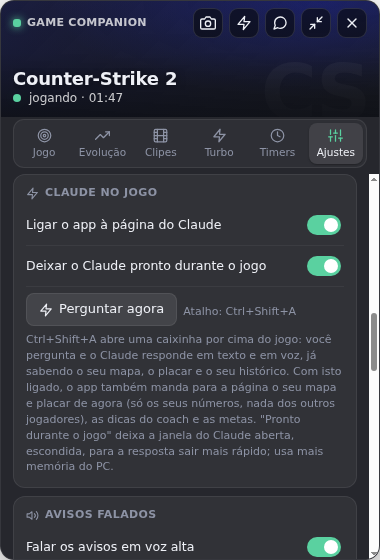
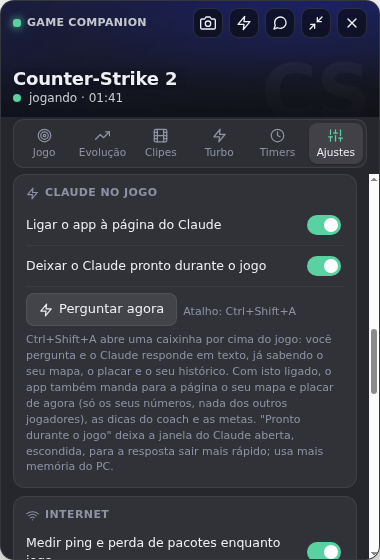
Game Companion 1.2.1: voz removida do app
- Sem avisos falados: a fala do HUD, dos timers, do coach, da internet, das metas e da pergunta rápida saiu
- O cartão "Avisos falados" sai dos Ajustes; os avisos continuam em texto (canto da tela e HUD)
- Ajustes antigos de voz são descartados ao abrir o app

Claude-Session: https://claude.ai/code/session_018waZrYVhUzaTpArXaZzWoK

diff --git a/src/main.js b/src/main.js
@@ -426,7 +426,7 @@ const cs2 = new Cs2Live();
 let cs2Seen = 0;
 let cs2Status = 'off';
 let cs2RoundKills = 0;
-let cs2RoundPhase = null, cs2Phase = null;
+let cs2Phase = null;
 function cs2Token() {
   if (!store.state.cs2Token) { store.state.cs2Token = crypto.randomBytes(12).toString('hex'); store.save(); }
   return store.state.cs2Token;
@@ -459,10 +459,9 @@ function startCs2Server() {
       cs2Seen = Date.now(); cs2Status = 'live';
       const { state, match } = cs2.update(p);
       send('cs2', state);
-      // Começo da rodada (tempo de compra): a dica de compra em voz. Nova partida: lembrete do coach.
-      if (state && state.roundPhase === 'freezetime' && cs2RoundPhase !== 'freezetime' && state.buy) speak('buy', state.buy.say);
+      // Nova partida: lembrete do coach.
       if (state && cs2Phase && state.phase !== cs2Phase && (state.phase === 'warmup' || cs2Phase === 'gameover')) coachRemind('cs2');
-      cs2RoundPhase = state ? state.roundPhase : null; cs2Phase = state ? state.phase : null;
+      cs2Phase = state ? state.phase : null;
       liveSync();
       if (match) onCs2Match(match);
       // Clipe sozinho: 3 ou mais abates na mesma rodada.
@@ -1088,7 +1087,7 @@ function checkGoals(game = null) {
     const p = stats.goalProgress(g, store.state.history, store.state.sessions, now);
     if (!p) continue;
     const where = g.game ? ` no ${nameOfGame(g.game)}` : '';
-    if (p.done && !g.doneAt) { g.doneAt = now; changed = true; notify(`🎯 Meta batida${where}: ${p.label} chegou a ${p.valueText} (meta ${p.targetText}).`); speak('goals', `Meta batida${where}!`); }
+    if (p.done && !g.doneAt) { g.doneAt = now; changed = true; notify(`🎯 Meta batida${where}: ${p.label} chegou a ${p.valueText} (meta ${p.targetText}).`); }
     if (p.over && g.warnedWeek !== stats.weekStart(now)) { g.warnedWeek = stats.weekStart(now); changed = true; notify(`⏳ Você passou de ${p.targetText} h de jogo esta semana${where}. Já são ${p.valueText} h.`); }
   }
   if (changed) { store.save(); send('history-changed'); }
@@ -1200,7 +1199,6 @@ async function onFpsDrop(drop) {
   if (store.state.settings.turboAlerts !== false && Date.now() - lastDropToast > 5 * 60000) {
     lastDropToast = Date.now();
     notify(`📉 FPS caiu de ${drop.from} para ${drop.to}. ${why.text}`);
-    speak('fps', `FPS caiu para ${drop.to}`);
   }
 }
 function checkHeat(sys) {
@@ -1449,7 +1447,6 @@ function showCoach(tip) {
   const text = tip.ai || tip.local.text;
   notify(`🧠 Coach: ${text}`);
   hudCoach = { text, until: Date.now() + 45000, label: 'Coach' };
-  speak('coach', text);
   send('coach', coachInfo());
   hudTick();
   queueCoach(tip);
@@ -1471,7 +1468,7 @@ function coachAsk(id) {
   return askClaude(t.game, coach.followUp(match, ctx, nameOfGame(t.game), t.ai || t.local.text));
 }
 
-// ---------- Pergunta rápida (Ctrl+Shift+A): caixinha por cima do jogo; o Claude responde em texto e voz ----------
+// ---------- Pergunta rápida (Ctrl+Shift+A): caixinha por cima do jogo; o Claude responde em texto (e no HUD) ----------
 let quickWin = null, quickBusy = false, quickSize = 170;
 const quickChat = new bridge.QuickChat();
 // O jogo da pergunta: o que está aberto ou, se o Pedro acabou de fechar, o da última sessão.
@@ -1484,7 +1481,7 @@ function quickGame() {
 function quickInfo() {
   const g = quickGame(), snap = liveSnapshot();
   const line = snap ? (snap.text || [snap.map, snap.mode, snap.score && `placar ${snap.score}`, snap.k != null && `${snap.k}/${snap.a ?? '?'}/${snap.d ?? '?'}`].filter(Boolean).join(' · ')) : '';
-  return { game: g ? g.id : null, gameName: g ? nameOfGame(g.id) : null, line, turns: g ? quickChat.turns(g.id) : [], busy: quickBusy, visible: Boolean(quickWin && !quickWin.isDestroyed() && quickWin.isVisible()), ready: Boolean(claudeWin && !claudeWin.isDestroyed()), voice: Boolean(store.state.settings.voice) };
+  return { game: g ? g.id : null, gameName: g ? nameOfGame(g.id) : null, line, turns: g ? quickChat.turns(g.id) : [], busy: quickBusy, visible: Boolean(quickWin && !quickWin.isDestroyed() && quickWin.isVisible()), ready: Boolean(claudeWin && !claudeWin.isDestroyed()) };
 }
 function placeQuick(height = quickSize) {
   if (!quickWin || quickWin.isDestroyed()) return;
@@ -1501,7 +1498,7 @@ function quickWindow() {
   quickWin.setAlwaysOnTop(true, 'screen-saver');
   quickWin.setVisibleOnAllWorkspaces(true, { visibleOnFullScreen: true });
   quickWin.loadFile(path.join(__dirname, 'renderer', 'quick.html'));
-  // Voltou para o jogo: a caixinha some (a resposta ainda sai no HUD e na voz).
+  // Voltou para o jogo: a caixinha some (a resposta ainda sai no HUD).
   quickWin.on('blur', () => setTimeout(() => { if (quickWin && !quickWin.isDestroyed() && quickWin.isVisible() && !quickWin.isFocused()) quickWin.hide(); }, 250));
   quickWin.on('closed', () => { quickWin = null; });
   return quickWin;
@@ -1534,7 +1531,6 @@ async function askQuick(question) {
     quickChat.add(g.id, q, text);
     hudCoach = { text, until: Date.now() + 40000, label: 'Claude' };
     hudTick();
-    speak('quick', text);
     return { text };
   } finally { quickBusy = false; touchBridge(); }
 }
@@ -1544,17 +1540,6 @@ setInterval(() => {
   const keep = currentGame && siteOn() && store.state.settings.quickWarm !== false;
   if (!keep && Date.now() - lastBridgeUse > 12 * 60000) claudeWin.destroy();
 }, 60000);
-
-// ---------- Avisos falados (dica de compra, timers, coach, internet, metas) ----------
-let lastSpoken = { text: '', at: 0 };
-function speak(kind, text) {
-  const s = store.state.settings;
-  if (!s.voice || !(s.voiceEvents || {})[kind] || !text) return;
-  const clean = String(text).replace(/[\u{1F000}-\u{1FAFF}\u{2600}-\u{27BF}\u{FE0F}]/gu, '').replace(/\s+/g, ' ').trim();
-  if (!clean || (clean === lastSpoken.text && Date.now() - lastSpoken.at < 15000)) return;
-  lastSpoken = { text: clean, at: Date.now() };
-  send('speak', { text: clean, volume: Math.max(0, Math.min(1, (Number(s.voiceVolume) || 80) / 100)), kind });
-}
 
 // ---------- Internet: ping e perda de pacotes, até o roteador e até a internet ----------
 const netState = { inet: new netLib.PingStats(), gw: new netLib.PingStats(), proc: null, hosts: '', gateway: undefined, base: null, lastAlert: 0, trouble: null };
@@ -1630,7 +1615,6 @@ function checkNet() {
     const what = t === 'loss' ? `${Math.round(recent.loss * 100)}% dos pacotes se perderam` : t === 'ping' ? `ping em ${recent.avg} ms` : `ping oscilando ${recent.jitter} ms`;
     const diag = netLib.diagnose(recent, netState.gw.summary(30000, now));
     notify(`📶 Internet instável: ${what} no último meio minuto. ${diag.text}`);
-    speak('net', t === 'loss' ? 'Internet perdendo pacotes' : 'Ping alto');
   }
   netState.trouble = t;
   if (win && win.isVisible()) send('net', netInfo());
@@ -1829,8 +1813,7 @@ function registerIpc() {
       hudItems: (v) => Object.fromEntries(Object.keys(store.state.settings.hudItems || {}).map((k) => [k, Boolean(v && v[k])])),
       turboPower: Boolean, turboAlerts: Boolean, dailyLimitMin: (v) => Math.max(0, Math.min(24 * 60, Math.round(Number(v) || 0))),
       clips: Boolean, clipSeconds: (v) => ([15, 30, 60].includes(Number(v)) ? Number(v) : 30), clipAuto: Boolean, clipQuality: (v) => (v === '1080' ? '1080' : '720'),
-      coach: Boolean, coachAi: Boolean, voice: Boolean, voiceVolume: (v) => Math.max(10, Math.min(100, Math.round(Number(v) || 80))),
-      voiceEvents: (v) => Object.fromEntries(Object.keys(store.state.settings.voiceEvents || {}).map((k) => [k, Boolean(v && v[k])])),
+      coach: Boolean, coachAi: Boolean,
       net: Boolean, netHost: (v) => (netLib.hostOk(String(v || '').trim()) ? String(v).trim().slice(0, 100) : '1.1.1.1'), autoUpdate: Boolean,
       siteSync: Boolean, quickWarm: Boolean,
     };

diff --git a/src/renderer/index.html b/src/renderer/index.html
@@ -33,7 +33,6 @@
     <symbol id="i-radio" viewBox="0 0 24 24"><circle cx="12" cy="12" r="2"/><path d="M16.2 7.8a6 6 0 0 1 0 8.5"/><path d="M7.8 16.2a6 6 0 0 1 0-8.5"/><path d="M19.1 4.9a10 10 0 0 1 0 14.2"/><path d="M4.9 19.1a10 10 0 0 1 0-14.2"/></symbol>
     <symbol id="i-brain" viewBox="0 0 24 24"><path d="M9.5 2A2.5 2.5 0 0 0 7 4.5v.3A3 3 0 0 0 4.5 8a3 3 0 0 0 .4 1.5A3 3 0 0 0 4 12a3 3 0 0 0 1.6 2.6A3 3 0 0 0 8 19a2.5 2.5 0 0 0 4 1.5V4a2 2 0 0 0-2.5-2z"/><path d="M14.5 2A2.5 2.5 0 0 1 17 4.5v.3A3 3 0 0 1 19.5 8a3 3 0 0 1-.4 1.5A3 3 0 0 1 20 12a3 3 0 0 1-1.6 2.6A3 3 0 0 1 16 19a2.5 2.5 0 0 1-4 1.5"/></symbol>
     <symbol id="i-wifi" viewBox="0 0 24 24"><path d="M5 12.55a11 11 0 0 1 14.08 0"/><path d="M1.42 9a16 16 0 0 1 21.16 0"/><path d="M8.53 16.11a6 6 0 0 1 6.95 0"/><line x1="12" y1="20" x2="12.01" y2="20"/></symbol>
-    <symbol id="i-volume" viewBox="0 0 24 24"><polygon points="11 5 6 9 2 9 2 15 6 15 11 19 11 5"/><path d="M15.54 8.46a5 5 0 0 1 0 7.07"/><path d="M19.07 4.93a10 10 0 0 1 0 14.14"/></symbol>
     <symbol id="i-scissors" viewBox="0 0 24 24"><circle cx="6" cy="6" r="3"/><circle cx="6" cy="18" r="3"/><line x1="20" y1="4" x2="8.12" y2="15.88"/><line x1="14.47" y1="14.48" x2="20" y2="20"/><line x1="8.12" y1="8.12" x2="12" y2="12"/></symbol>
     <symbol id="i-copy" viewBox="0 0 24 24"><rect x="9" y="9" width="13" height="13" rx="2"/><path d="M5 15H4a2 2 0 0 1-2-2V4a2 2 0 0 1 2-2h9a2 2 0 0 1 2 2v1"/></symbol>
     <symbol id="i-folder" viewBox="0 0 24 24"><path d="M22 19a2 2 0 0 1-2 2H4a2 2 0 0 1-2-2V5a2 2 0 0 1 2-2h5l2 3h9a2 2 0 0 1 2 2z"/></symbol>
@@ -51,7 +50,7 @@
         <div class="brand drag"><span class="brand-dot"></span>Game Companion</div>
         <div class="actions no-drag">
           <button id="btn-shot" class="icon-btn" title="Print do placar para o Claude ler (Ctrl+Shift+P)"><svg><use href="#i-camera"/></svg></button>
-          <button id="btn-quick" class="icon-btn" title="Perguntar ao Claude no jogo, com texto e voz (Ctrl+Shift+A)"><svg><use href="#i-bolt"/></svg></button>
+          <button id="btn-quick" class="icon-btn" title="Perguntar ao Claude no jogo (Ctrl+Shift+A)"><svg><use href="#i-bolt"/></svg></button>
           <button id="btn-web" class="icon-btn" title="Abrir o Claude: perguntas, partidas, imagens (Ctrl+Shift+W)"><svg><use href="#i-chat"/></svg></button>
           <button id="btn-compact" class="icon-btn" title="Modo compacto (Ctrl+Shift+M)"><svg><use href="#i-shrink"/></svg></button>
           <button id="btn-hide" class="icon-btn" title="Esconder (Ctrl+Shift+G). O app continua no ícone perto do relógio."><svg><use href="#i-x"/></svg></button>
@@ -377,17 +376,7 @@
           <label class="set-row">Ligar o app à página do Claude <input id="set-site" type="checkbox" class="switch"></label>
           <label class="set-row">Deixar o Claude pronto durante o jogo <input id="set-quick-warm" type="checkbox" class="switch"></label>
           <div class="row"><button id="btn-quick-open" class="btn ghost"><svg><use href="#i-bolt"/></svg>Perguntar agora</button><span class="muted small">Atalho: Ctrl+Shift+A</span></div>
-          <div class="small muted">Ctrl+Shift+A abre uma caixinha por cima do jogo: você pergunta e o Claude responde em texto e em voz, já sabendo o seu mapa, o placar e o seu histórico. Com isto ligado, o app também manda para a página o seu mapa e placar de agora (só os seus números, nada dos outros jogadores), as dicas do coach e as metas. "Pronto durante o jogo" deixa a janela do Claude aberta, escondida, para a resposta sair mais rápido; usa mais memória do PC.</div>
-        </div>
-        <div class="card">
-          <div class="card-label"><svg><use href="#i-volume"/></svg>Avisos falados</div>
-          <label class="set-row">Falar os avisos em voz alta <input id="set-voice" type="checkbox" class="switch"></label>
-          <label class="set-row">Volume <input id="set-voice-volume" type="range" min="10" max="100" step="10"></label>
-          <div class="chips toggles" id="set-voice-events">
-            <button data-ev="buy">Dica de compra do CS2</button><button data-ev="timers">Timers e lembretes</button><button data-ev="coach">Coach</button>
-            <button data-ev="net">Internet instável</button><button data-ev="goals">Metas batidas</button><button data-ev="fps">Queda de FPS</button><button data-ev="quick">Respostas rápidas do Claude</button>
-          </div>
-          <div class="row"><button id="btn-voice-test" class="btn ghost"><svg><use href="#i-volume"/></svg>Testar a voz</button><span id="voice-name" class="muted small"></span></div>
+          <div class="small muted">Ctrl+Shift+A abre uma caixinha por cima do jogo: você pergunta e o Claude responde em texto, já sabendo o seu mapa, o placar e o seu histórico. Com isto ligado, o app também manda para a página o seu mapa e placar de agora (só os seus números, nada dos outros jogadores), as dicas do coach e as metas. "Pronto durante o jogo" deixa a janela do Claude aberta, escondida, para a resposta sair mais rápido; usa mais memória do PC.</div>
         </div>
         <div class="card">
           <div class="card-label"><svg><use href="#i-wifi"/></svg>Internet</div>

diff --git a/src/renderer/app.js b/src/renderer/app.js
@@ -365,7 +365,6 @@ function alertUser(text) {
   b.textContent = `⏰ ${text}`; b.hidden = false;
   clearTimeout(b._t); b._t = setTimeout(() => { b.hidden = true; }, 8000);
   beep();
-  if (settings.voice && (settings.voiceEvents || {}).timers) setTimeout(() => say(text), 900);
   try { new Notification('Game Companion', { body: text, silent: true }); } catch {}
 }
 
@@ -498,9 +497,6 @@ function applySettings() {
   $('#set-coach').checked = settings.coach !== false;
   $('#set-coach-ai').checked = settings.coachAi !== false;
   $('#set-coach-ai').disabled = settings.coach === false;
-  $('#set-voice').checked = Boolean(settings.voice);
-  $('#set-voice-volume').value = settings.voiceVolume ?? 80;
-  $$('#set-voice-events button').forEach((b) => b.classList.toggle('on', Boolean((settings.voiceEvents || {})[b.dataset.ev])));
   $('#set-net').checked = settings.net !== false;
   if (document.activeElement !== $('#set-net-host')) $('#set-net-host').value = settings.netHost || '1.1.1.1';
   $('#set-auto-update').checked = settings.autoUpdate !== false;
@@ -528,10 +524,6 @@ $('#set-clip-auto').onchange = (e) => setSetting('clipAuto', e.target.checked);
 $('#btn-clips-folder').onclick = () => window.api.openClipsFolder();
 $('#set-coach').onchange = (e) => setSetting('coach', e.target.checked);
 $('#set-coach-ai').onchange = (e) => setSetting('coachAi', e.target.checked);
-$('#set-voice').onchange = (e) => setSetting('voice', e.target.checked);
-$('#set-voice-volume').onchange = (e) => { setSetting('voiceVolume', Number(e.target.value)); say('Volume da voz', Number(e.target.value) / 100); };
-$$('#set-voice-events button').forEach((b) => b.onclick = () => setSetting('voiceEvents', { ...(settings.voiceEvents || {}), [b.dataset.ev]: !(settings.voiceEvents || {})[b.dataset.ev] }));
-$('#btn-voice-test').onclick = () => say('Compra completa. Fuzil, colete e granadas.');
 $('#set-net').onchange = (e) => setSetting('net', e.target.checked);
 $('#set-net-host').onchange = (e) => setSetting('netHost', e.target.value.trim() || '1.1.1.1');
 $('#set-auto-update').onchange = (e) => setSetting('autoUpdate', e.target.checked);
@@ -1068,27 +1060,6 @@ function renderEvoCoach() {
   }).join('');
 }
 window.api.onCoach((c) => { coachData = c; renderCoach(); });
-
-// ---------- Avisos falados ----------
-// A voz é a do Windows (Microsoft Maria, Francisca ou Daniel, em português).
-let voice = null;
-function pickVoice() {
-  const all = speechSynthesis.getVoices();
-  voice = all.find((v) => /pt-BR/i.test(v.lang) && /Francisca|Thalita|Maria|Daniel|Google/i.test(v.name)) || all.find((v) => /pt-BR/i.test(v.lang)) || all.find((v) => /^pt/i.test(v.lang)) || null;
-  $('#voice-name').textContent = voice ? voice.name.replace(/^Microsoft\s+/, '').replace(/\s+Online.*$/, '') : all.length ? 'Sem voz em português: instale em Configurações do Windows, Hora e idioma, Fala.' : '';
-}
-try { pickVoice(); speechSynthesis.onvoiceschanged = pickVoice; } catch {}
-function say(text, volume) {
-  try {
-    if (!text) return;
-    const u = new SpeechSynthesisUtterance(String(text));
-    u.lang = 'pt-BR'; if (voice) u.voice = voice;
-    u.volume = volume ?? (settings.voiceVolume ?? 80) / 100; u.rate = 1.08;
-    window.__spoken = [...(window.__spoken || []), String(text)].slice(-20);
-    speechSynthesis.speak(u);
-  } catch {}
-}
-window.api.onSpeak((m) => say(m.text, m.volume));
 
 // ---------- Internet ----------
 let netData = null;

diff --git a/src/core.js b/src/core.js
@@ -87,7 +87,6 @@ const DEFAULT_STATE = {
     turboPower: false, turboAlerts: true, dailyLimitMin: 0,
     clips: false, clipSeconds: 30, clipAuto: true, clipQuality: '720',
     coach: true, coachAi: true,
-    voice: true, voiceVolume: 80, voiceEvents: { buy: true, timers: true, coach: true, net: true, goals: true, fps: false, quick: true },
     net: true, netHost: '1.1.1.1',
     autoUpdate: true,
     siteSync: true, quickWarm: true,
@@ -107,7 +106,7 @@ class Store {
       // Ajustes novos ganham o valor padrão sem perder os que o Pedro já mudou.
       this.state.settings = { ...DEFAULT_STATE.settings, ...(saved.settings || {}) };
       this.state.settings.hudItems = { ...DEFAULT_STATE.settings.hudItems, ...((saved.settings || {}).hudItems || {}) };
-      this.state.settings.voiceEvents = { ...DEFAULT_STATE.settings.voiceEvents, ...((saved.settings || {}).voiceEvents || {}) };
+      for (const k of ['voice', 'voiceVolume', 'voiceEvents']) delete this.state.settings[k]; // a voz foi retirada do app (1.2.1)
     } catch {
       this.state = structuredClone(DEFAULT_STATE);
     }

diff --git a/test/smoke.js b/test/smoke.js
@@ -509,7 +509,17 @@ const turbo = require('../src/turbo');
   assert(up.verify({ size: 5e6, sha256: 'x' }, { size: 5e6, sha256: null }), 'sem digest, confere o tamanho');
 }
 
-// ---------- Dica de compra falada (CS2) ----------
+// ---------- A voz saiu do app (1.2.1): ajustes antigos de voz são descartados ----------
+{
+  const f = path.join(os.tmpdir(), `gc-voz-${Date.now()}.json`);
+  fs.writeFileSync(f, JSON.stringify({ settings: { opacity: 70, voice: true, voiceVolume: 50, voiceEvents: { buy: true } } }));
+  const st = new core.Store(f);
+  assert.strictEqual(st.state.settings.opacity, 70, 'os outros ajustes continuam');
+  for (const k of ['voice', 'voiceVolume', 'voiceEvents']) assert(!(k in st.state.settings), `${k} some`);
+  assert(!('voice' in new core.Store(path.join(os.tmpdir(), `gc-voz-novo-${Date.now()}.json`)).state.settings));
+}
+
+// ---------- Dica de compra (CS2) ----------
 {
   const { buyAdvice } = require('../src/cs2');
   const b = buyAdvice({ mode: 'competitive', money: 6000, team: 'CT', round: 5, phase: 'live' });

diff --git a/src/preload.js b/src/preload.js
@@ -69,8 +69,7 @@ contextBridge.exposeInMainWorld('api', {
   coach: () => ipcRenderer.invoke('coach'),
   coachAsk: (id) => ipcRenderer.invoke('coach-ask', id),
   onCoach: (cb) => ipcRenderer.on('coach', (_e, c) => cb(c)),
-  // Voz e internet
-  onSpeak: (cb) => ipcRenderer.on('speak', (_e, m) => cb(m)),
+  // Internet
   net: () => ipcRenderer.invoke('net'),
   netWatch: (on) => ipcRenderer.invoke('net-watch', on),
   onNet: (cb) => ipcRenderer.on('net', (_e, n) => cb(n)),

diff --git a/src/renderer/quick.js b/src/renderer/quick.js
@@ -1,4 +1,4 @@
-// Pergunta rápida: o Pedro escreve, o Claude responde (a resposta também sai no HUD e na voz, pelo processo principal).
+// Pergunta rápida: o Pedro escreve, o Claude responde (a resposta também sai no HUD, pelo processo principal).
 const $ = (s) => document.querySelector(s);
 const SUGGESTIONS = ['Dica rápida para agora', 'O que estou errando?', 'O que eu devo treinar hoje?'];
 let info = { game: null, turns: [] };

diff --git a/README.md b/README.md
@@ -9,18 +9,17 @@ Um painel que fica por cima do jogo (overlay) no PC. No topo aparece a capa do j
   - **Minecraft e Cobblemon**: lê o `logs/latest.log` (Minecraft normal, CurseForge, Modrinth, Prism, ATLauncher, Technic). Conta mortes, conquistas e capturas da sessão e avisa na hora. No fim, escreve um resumo no Diário.
   - **TF2**: precisa da opção de inicialização `-condebug` na Steam. Mostra abates, mortes, K/D, sequência, arma com mais abates e quem mais te matou. Cada mapa vira uma partida.
   - **Stardew**: lê o save do dia (`SaveGameInfo`): fazenda, data, dinheiro, habilidades e dicas da estação. Avisa quanto ganhou ao dormir e escreve o resumo no Diário.
-- **Coach IA**: no fim de cada partida do CS2, Valorant ou TF2, o app compara a partida com a sua média (K/D, mortes, abates, tiros na cabeça, mapa, sequência) e pede ao Claude uma dica curta para a próxima. A dica aparece no aviso, no HUD, em voz (se ligada) e na aba Jogo, com um botão para conversar mais com o Claude sobre a partida. No começo da partida seguinte, o HUD lembra a dica. Sem o Claude (ou com "Pedir a dica ao Claude" desligado), fica uma dica rápida feita pelo próprio app. Usa só os números do próprio jogador.
-- **Pergunta rápida no jogo**: Ctrl+Shift+A abre uma caixinha por cima do jogo (jogo em janela ou tela cheia sem borda): você escreve, o Claude responde em texto, no HUD e em voz, já sabendo o seu mapa, placar, lado e K/A/D de agora, as suas partidas, metas e anotações. A conversa continua entre uma pergunta e outra, e as respostas são curtas (até 3 frases). Esc fecha; voltar ao jogo também. O app só passa para o Claude o que o jogo mostra para você (o seu mapa, placar, lado e números, nunca os de outros jogadores) e a resposta é feita só com isso e com o que você escreve. Usa a janela do Claude escondida; "Deixar o Claude pronto durante o jogo" (Ajustes) abre essa janela sozinha ao abrir um jogo, para a primeira resposta sair rápido (usa mais memória). Ela fecha sozinha depois de 12 minutos sem uso quando não há jogo aberto.
+- **Coach IA**: no fim de cada partida do CS2, Valorant ou TF2, o app compara a partida com a sua média (K/D, mortes, abates, tiros na cabeça, mapa, sequência) e pede ao Claude uma dica curta para a próxima. A dica aparece no aviso, no HUD e na aba Jogo, com um botão para conversar mais com o Claude sobre a partida. No começo da partida seguinte, o HUD lembra a dica. Sem o Claude (ou com "Pedir a dica ao Claude" desligado), fica uma dica rápida feita pelo próprio app. Usa só os números do próprio jogador.
+- **Pergunta rápida no jogo**: Ctrl+Shift+A abre uma caixinha por cima do jogo (jogo em janela ou tela cheia sem borda): você escreve, o Claude responde em texto (e no HUD), já sabendo o seu mapa, placar, lado e K/A/D de agora, as suas partidas, metas e anotações. A conversa continua entre uma pergunta e outra, e as respostas são curtas (até 3 frases). Esc fecha; voltar ao jogo também. O app só passa para o Claude o que o jogo mostra para você (o seu mapa, placar, lado e números, nunca os de outros jogadores) e a resposta é feita só com isso e com o que você escreve. Usa a janela do Claude escondida; "Deixar o Claude pronto durante o jogo" (Ajustes) abre essa janela sozinha ao abrir um jogo, para a primeira resposta sair rápido (usa mais memória). Ela fecha sozinha depois de 12 minutos sem uso quando não há jogo aberto.
 - **App e página conversam**: com "Ligar o app à página do Claude" ligado (Ajustes), a página mostra no Início o jogo que você está jogando agora (mapa, placar, números) e o Claude passa a considerar isso nas respostas; as dicas do coach vão para o Início da página; as metas do app (K/D, vitórias, horas...) aparecem na página, com a barra de progresso, junto com as metas escritas lá; e, na aba Evolução do app, as metas escritas na página aparecem para marcar ou criar. Desligando, nada disso é enviado.
 - **Evolução**: histórico de todas as partidas (as do modo ao vivo e as anotadas na janela do Claude, à mão ou pelo print do placar), por jogo e por período (7 dias, 30 dias ou tudo). Mostra partidas, % de vitórias, K/D e tempo com a comparação com o período anterior, um gráfico de K/D por partida com a média das últimas 5, tempo de jogo por dia, mapas com o seu melhor e o seu pior, recordes (mais abates, melhor K/D, vitórias seguidas, sessão mais longa), **metas** (K/D, % de vitórias, abates por partida, partidas na semana, limite de horas na semana) com aviso quando bate, e a semana atual contra a passada. O botão "Pedir dicas ao Claude" manda esse resumo para a pergunta do Claude. Toda segunda-feira aparece um aviso com o resumo da semana que passou. O cartão "Dicas do coach" junta as dicas das últimas partidas do jogo.
 - **Turbo**: FPS do jogo (com o PresentMon da Intel, que já vem junto; na primeira vez pode pedir permissão de administrador), uso de CPU, GPU, RAM e VRAM, temperaturas e gráfico dos últimos 2 minutos. **O que está pesando**: os programas que mais usam o PC agora, com um botão para fechar (Windows, drivers, antivírus, Steam e anti-cheats ficam de fora). **Quedas de FPS**: quando o FPS cai, o app anota a hora e o motivo provável (programa pesado, placa de vídeo ou processador no limite, memória cheia, PC quente) e avisa. Também avisa quando o PC esquenta, liga o plano **Alto desempenho** do Windows enquanto joga (e volta ao normal depois) e mostra o FPS médio de cada sessão. **Internet**: ping, perda de pacotes e oscilação no último minuto, até a internet (1.1.1.1, ou o endereço escolhido em Ajustes) e até o seu roteador, com um gráfico e o diagnóstico (falha no Wi-Fi de casa ou na internet). Avisa quando a conexão fica instável durante o jogo.
 - **HUD no jogo**: um mini painel por cima do jogo que deixa os cliques passarem, com FPS, CPU e GPU, ping, tempo de sessão, relógio, o próximo timer, a dica do coach e, no CS2, placar, dinheiro e uma **dica de compra** no começo da rodada (compra completa, eco ou force, pela sua economia). Escolha o canto e o que aparece em Ajustes. Ctrl+Shift+H mostra ou esconde.
 - **Clipes**: com os clipes ligados em Ajustes, o app grava a tela enquanto você joga e guarda só os últimos 15, 30 ou 60 segundos. Ctrl+Shift+C (ou o botão na aba Jogo ou Clipes) salva o clipe em Vídeos, pasta Game Companion. Pode salvar sozinho em jogadas boas (3 ou mais abates numa rodada do CS2, sequência de 5 no TF2). Gravar usa um pouco do PC: se o FPS cair, use 720p. A aba **Clipes** mostra todos os clipes da pasta com miniatura; no player dá para assistir, marcar o início e o fim e **salvar o corte**, fazer a **versão para o Discord** (até 10 MB, o limite sem Nitro), **copiar** o vídeo (Ctrl+V no Discord ou WhatsApp já anexa), mostrar na pasta ou mandar para a lixeira. O corte toca o trecho escondido e grava de novo, então leva o tempo do trecho.
-- **Avisos falados**: o app fala em português (voz do Windows) a dica de compra do CS2 no começo da rodada, timers e lembretes, a dica do coach, internet instável, metas batidas e, se quiser, queda de FPS. Cada um liga e desliga em Ajustes, com volume.
 - **Resumo da sessão**: ao fechar um jogo (depois de 2 minutos ou mais), o painel mostra tempo, FPS médio, FPS mais baixo e a comparação com a sua média. Dá para avaliar a sessão (👍 😐 👎) e deixar um comentário.
 - **Timers**: cronômetros rápidos (1, 3, 5, 10 min ou com nome), cronômetro normal, lembretes recorrentes (ex.: beber água a cada 30 min) e um limite de horas de jogo por dia. Quando um timer acaba, o painel aparece, toca um bipe e mostra um aviso.
 
-- **Ajustes**: transparência do painel, tamanho (Normal ou Grande), posição em qualquer canto da tela, avisos no canto da tela, som dos timers, iniciar com o Windows, HUD no jogo, Coach IA, avisos falados, internet, clipes, atalhos e atualização automática.
+- **Ajustes**: transparência do painel, tamanho (Normal ou Grande), posição em qualquer canto da tela, avisos no canto da tela, som dos timers, iniciar com o Windows, HUD no jogo, Coach IA, internet, clipes, atalhos e atualização automática.
 
 Os avisos (partida registrada, morte no Minecraft, dia salvo no Stardew, print do placar) aparecem no canto da tela mesmo com o painel escondido.
 
@@ -40,7 +39,7 @@ Os avisos (partida registrada, morte no Minecraft, dia salvo no Stardew, print d
 | Ctrl+Shift+W | Abrir a janela do Claude dentro do app (perguntas, partidas, imagens com dicas) já no jogo detectado |
 | Ctrl+Shift+P | Tirar print da tela e mandar para a leitura do placar na janela do Claude |
 | Ctrl+Shift+H | Mostrar ou esconder o HUD no jogo |
-| Ctrl+Shift+A | Pergunta rápida ao Claude: caixinha por cima do jogo, resposta em texto e voz |
+| Ctrl+Shift+A | Pergunta rápida ao Claude: caixinha por cima do jogo, resposta em texto |
 | Ctrl+Shift+C | Salvar um clipe com os últimos segundos (com os clipes ligados) |
 
 Arraste o painel pelo título para mudar de lugar.
